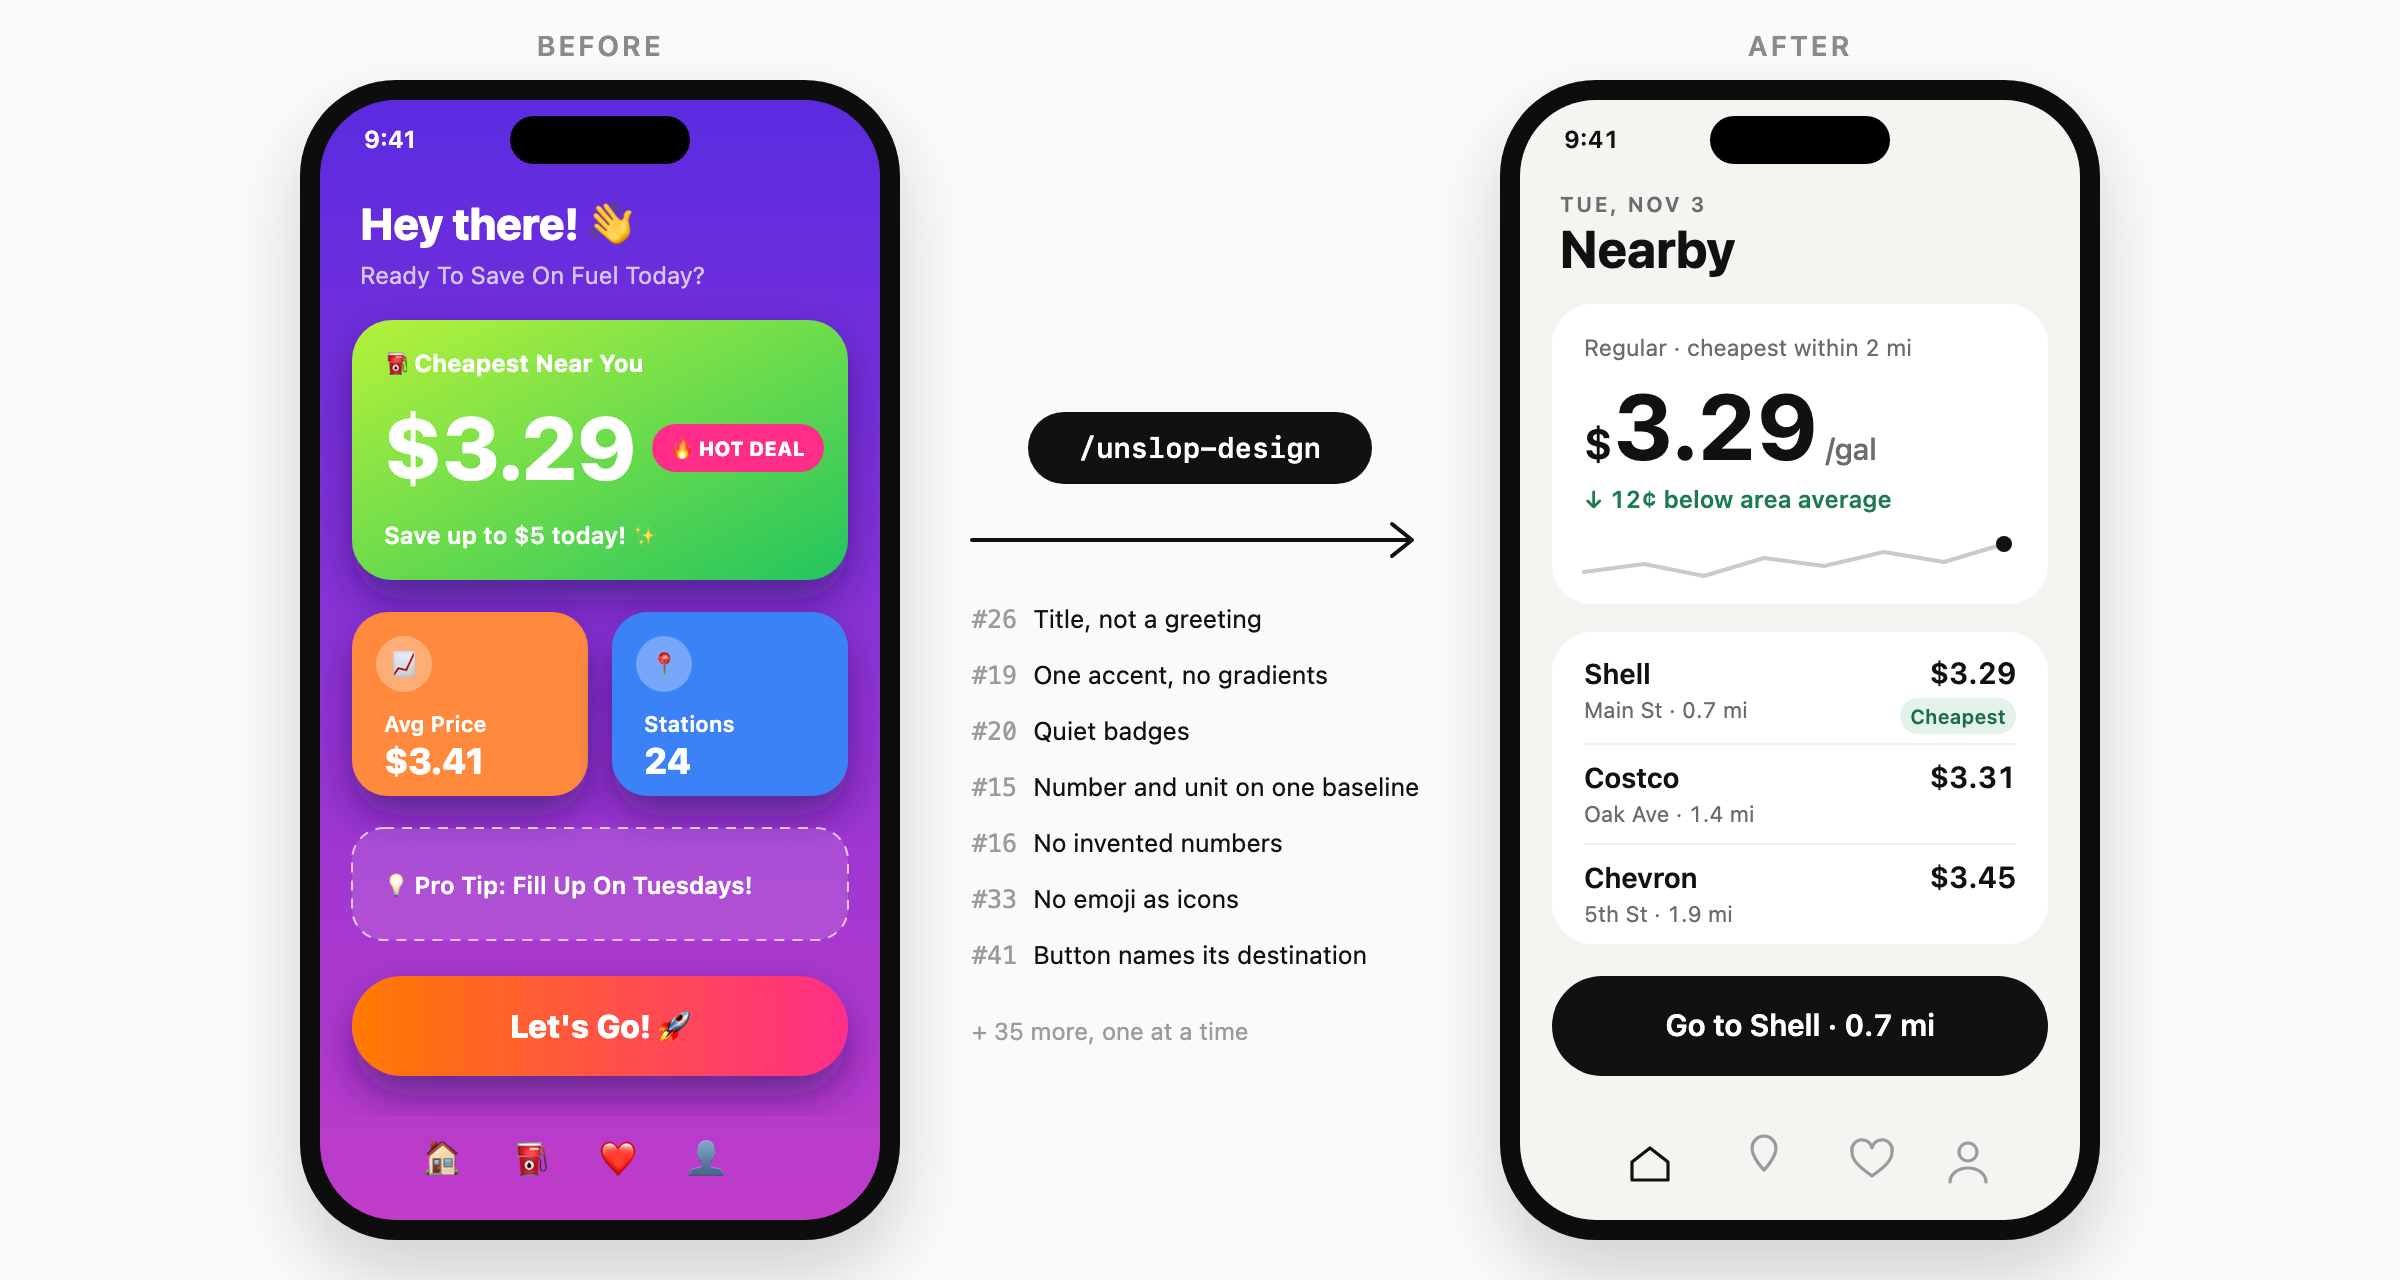
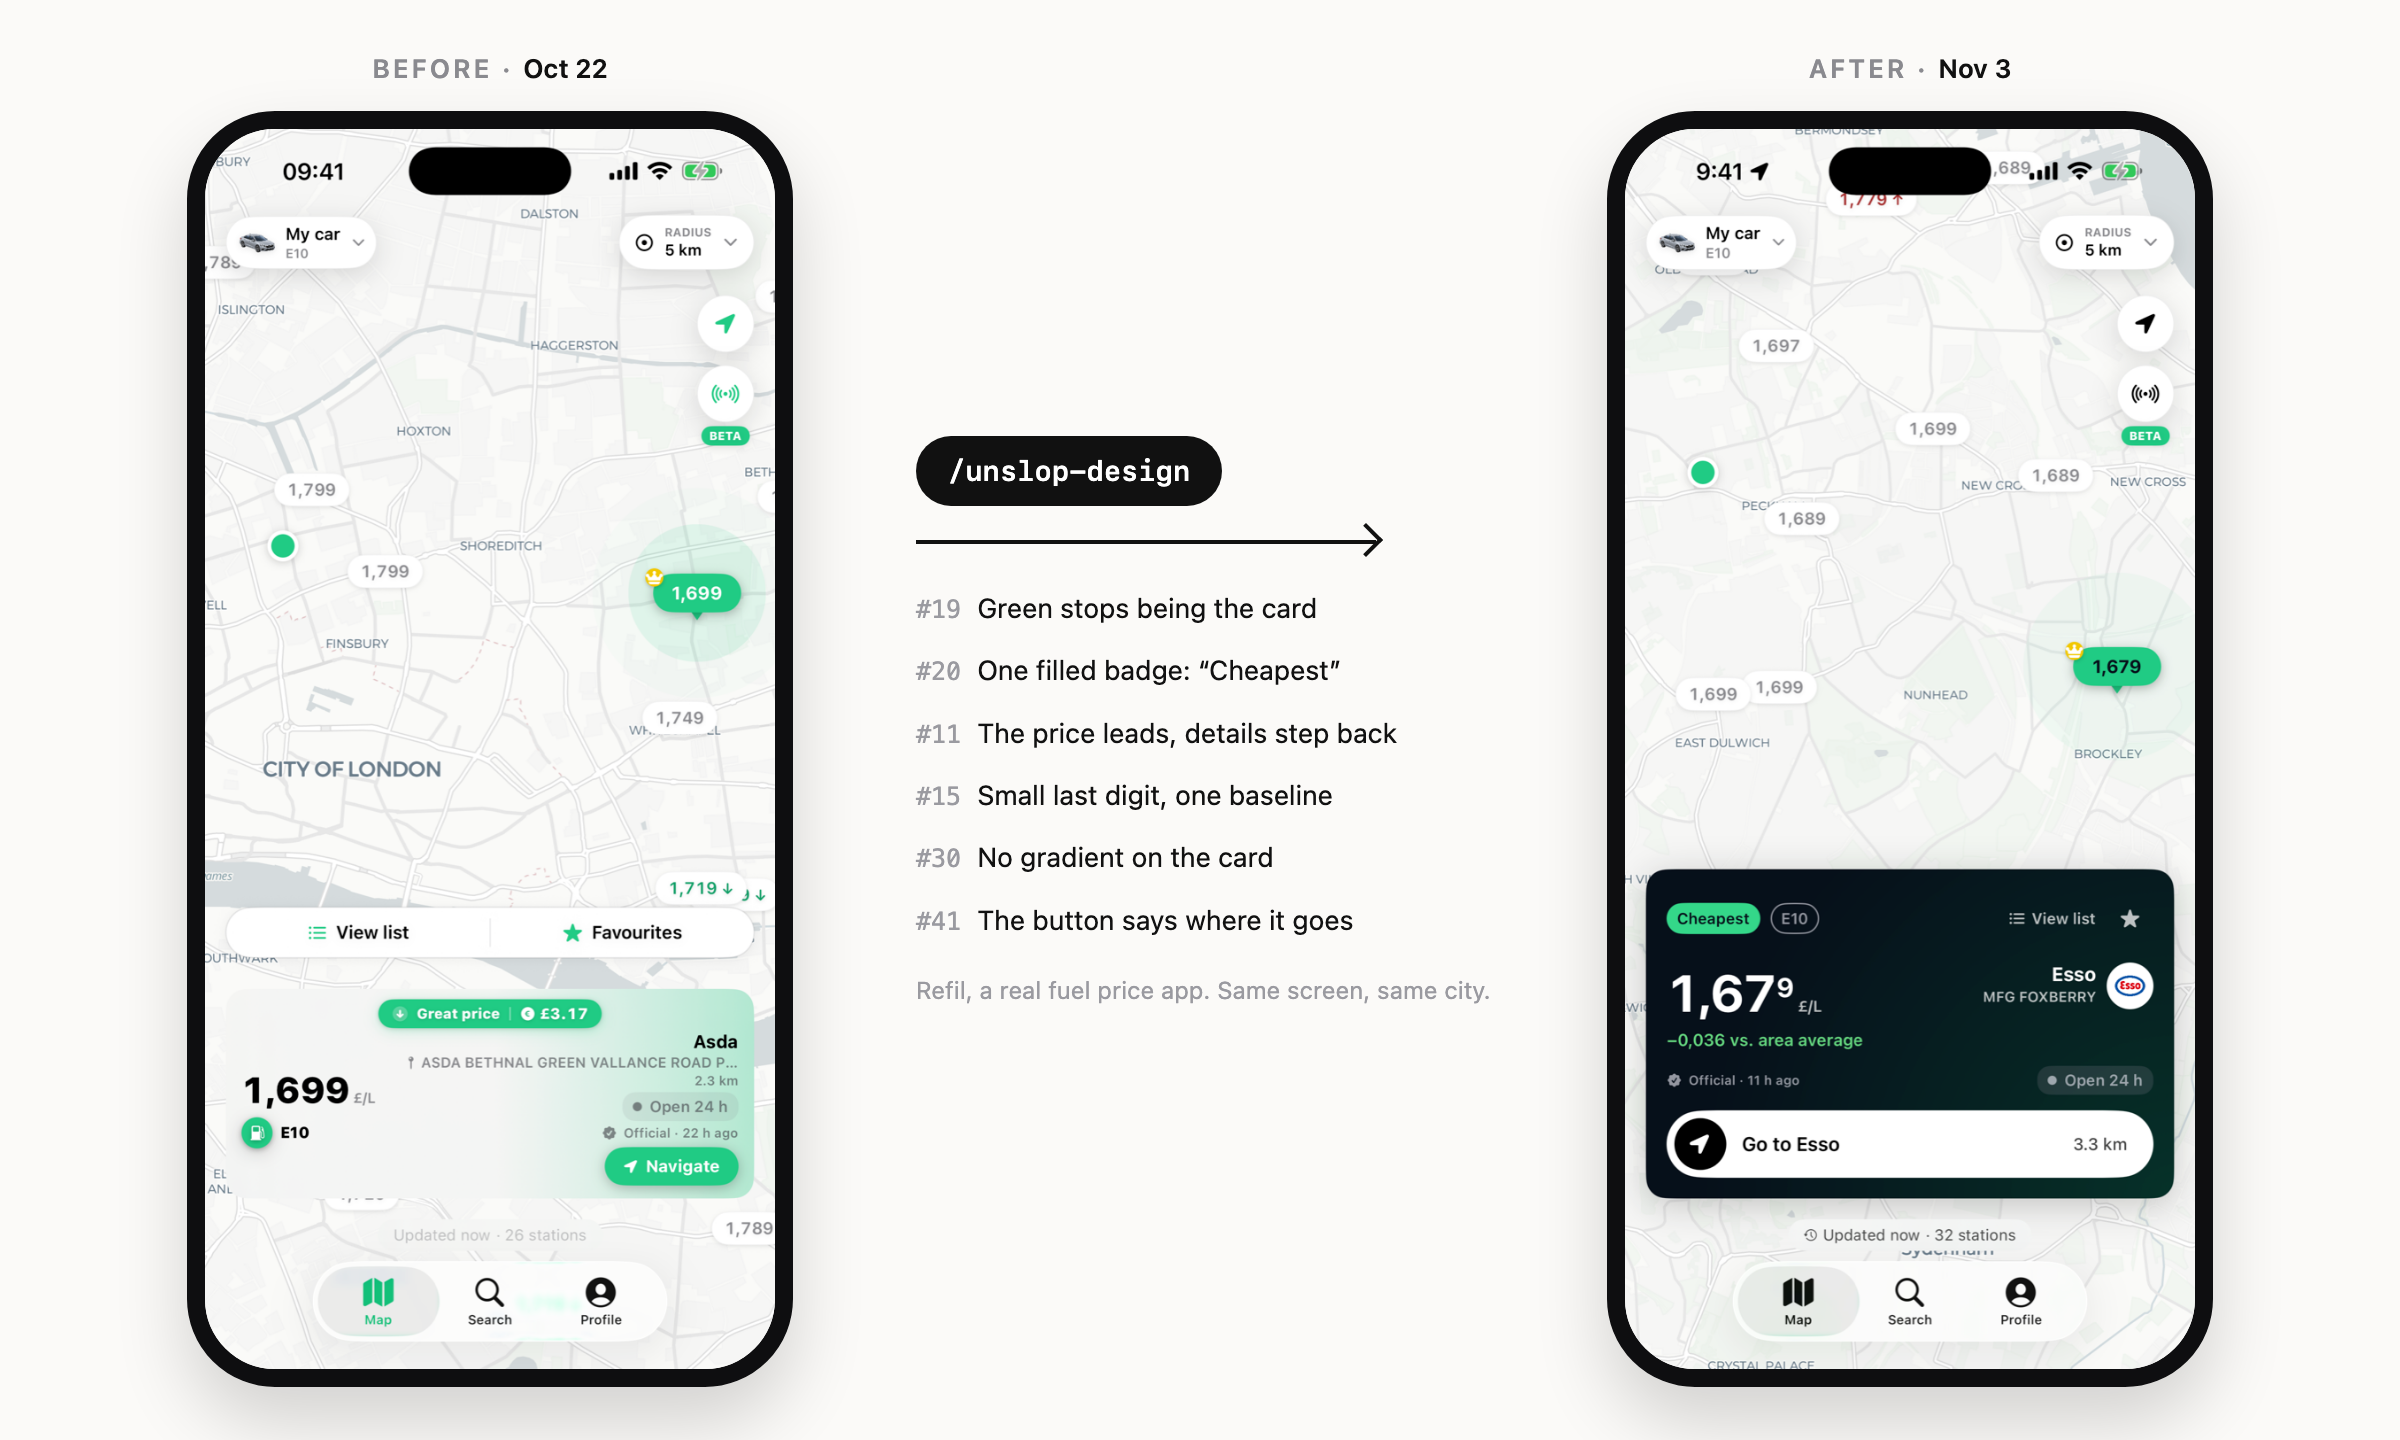
Hero: real before/after screenshots of Refil instead of a drawn mock

diff --git a/README.md b/README.md
@@ -14,8 +14,10 @@
 </p>
 
 <p align="center">
-  <img src="assets/hero.png" alt="Before: purple gradient, 'Hey there! 👋', lime card with a HOT DEAL badge, colorful tiles, emoji icons and a gradient 'Let's Go! 🚀' button. After: neutral background, 'Nearby' title, one large price with its unit on the same baseline, a quiet 'Cheapest' badge and a black 'Go to Shell · 0.7 mi' button." width="100%">
+  <img src="assets/hero.png" alt="Refil, a real fuel price app, before and after. Before (Oct 22): a green gradient station card with a filled Great price badge and a green Navigate button. After (Nov 3): a dark card with one filled Cheapest badge, the price with a small last digit, and a white Go to Esso · 3.3 km button." width="100%">
 </p>
+
+<p align="center"><sub>Real screenshots of <a href="https://refil.app">Refil</a>, same screen and city, before and after running the skill.</sub></p>
 
 <p align="center">
   <img alt="Claude Code skill" src="https://img.shields.io/badge/Claude%20Code-skill-111111">
